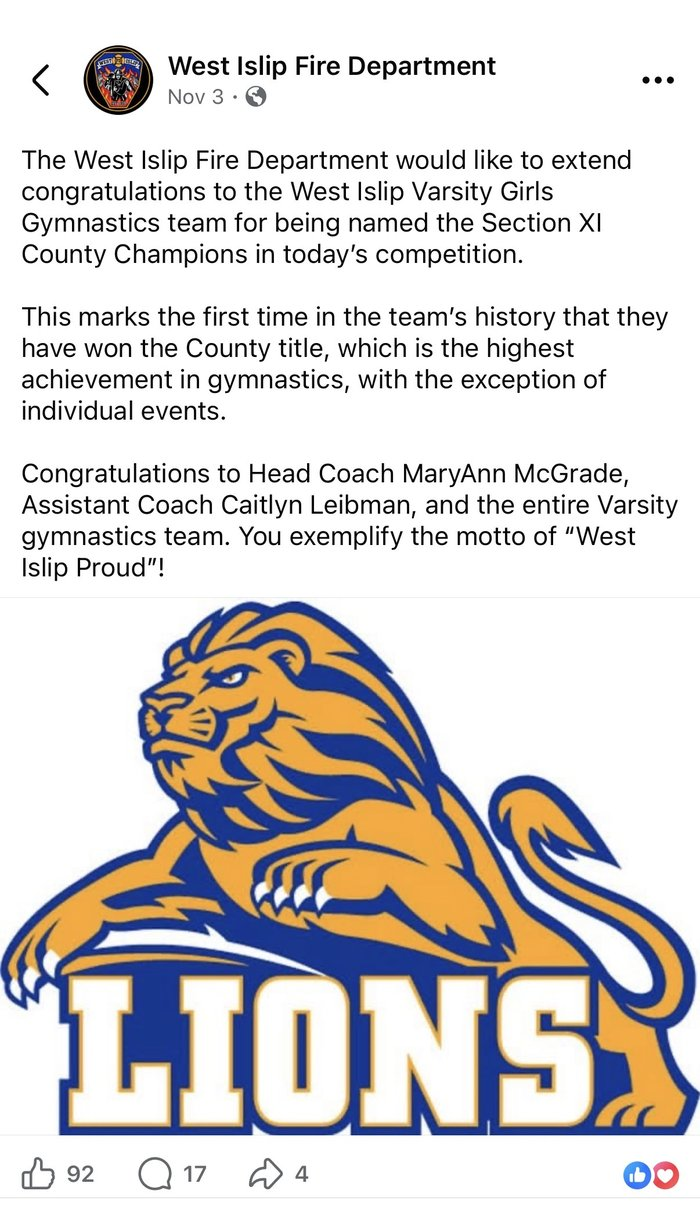
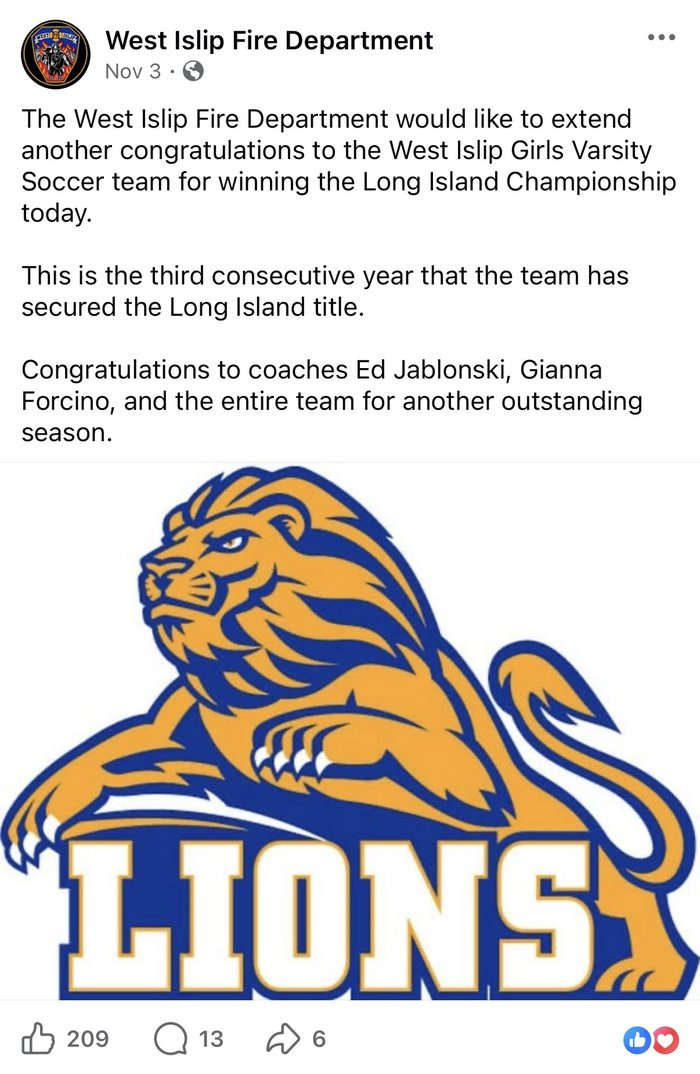
Swap in the girls soccer version of the West Islip FD post

diff --git a/index.html b/index.html
@@ -192,12 +192,12 @@
     <div class="photos">
       <figure class="featured">
         <img src="images/demarco-comment.jpg" width="1206" height="1571"
-             alt="Screenshot taken at 7:14am of a West Islip Fire Department Lions post, showing a comment by Brett DeMarco posted 8 hours earlier">
+             alt="Screenshot taken at 7:14am of the West Islip Fire Department post, showing a comment by Brett DeMarco posted 8 hours earlier">
         <figcaption>This was viewed at 7:14am and this was posted 8 hours before that, so why are you making these classless comments at 11pm at night?</figcaption>
       </figure>
       <figure class="featured small">
-        <img src="images/original-post.jpg" width="700" height="1205"
-             alt="The original West Islip Fire Department post from Nov 3 congratulating the West Islip Varsity Girls Gymnastics team on winning the Section XI County Championship">
+        <img src="images/original-post.jpg" width="700" height="1074"
+             alt="The original West Islip Fire Department post from Nov 3 congratulating the West Islip Girls Varsity Soccer team on winning the Long Island Championship for the third consecutive year">
         <figcaption>So you searched the internet to find out anything positive the West Islip girls soccer team did, beating the Garden City soccer team, and you put an asterisk because they got the opportunity to play again. So you are trying to hate on underage girls as a grown man.</figcaption>
       </figure>
       <figure class="featured small">
